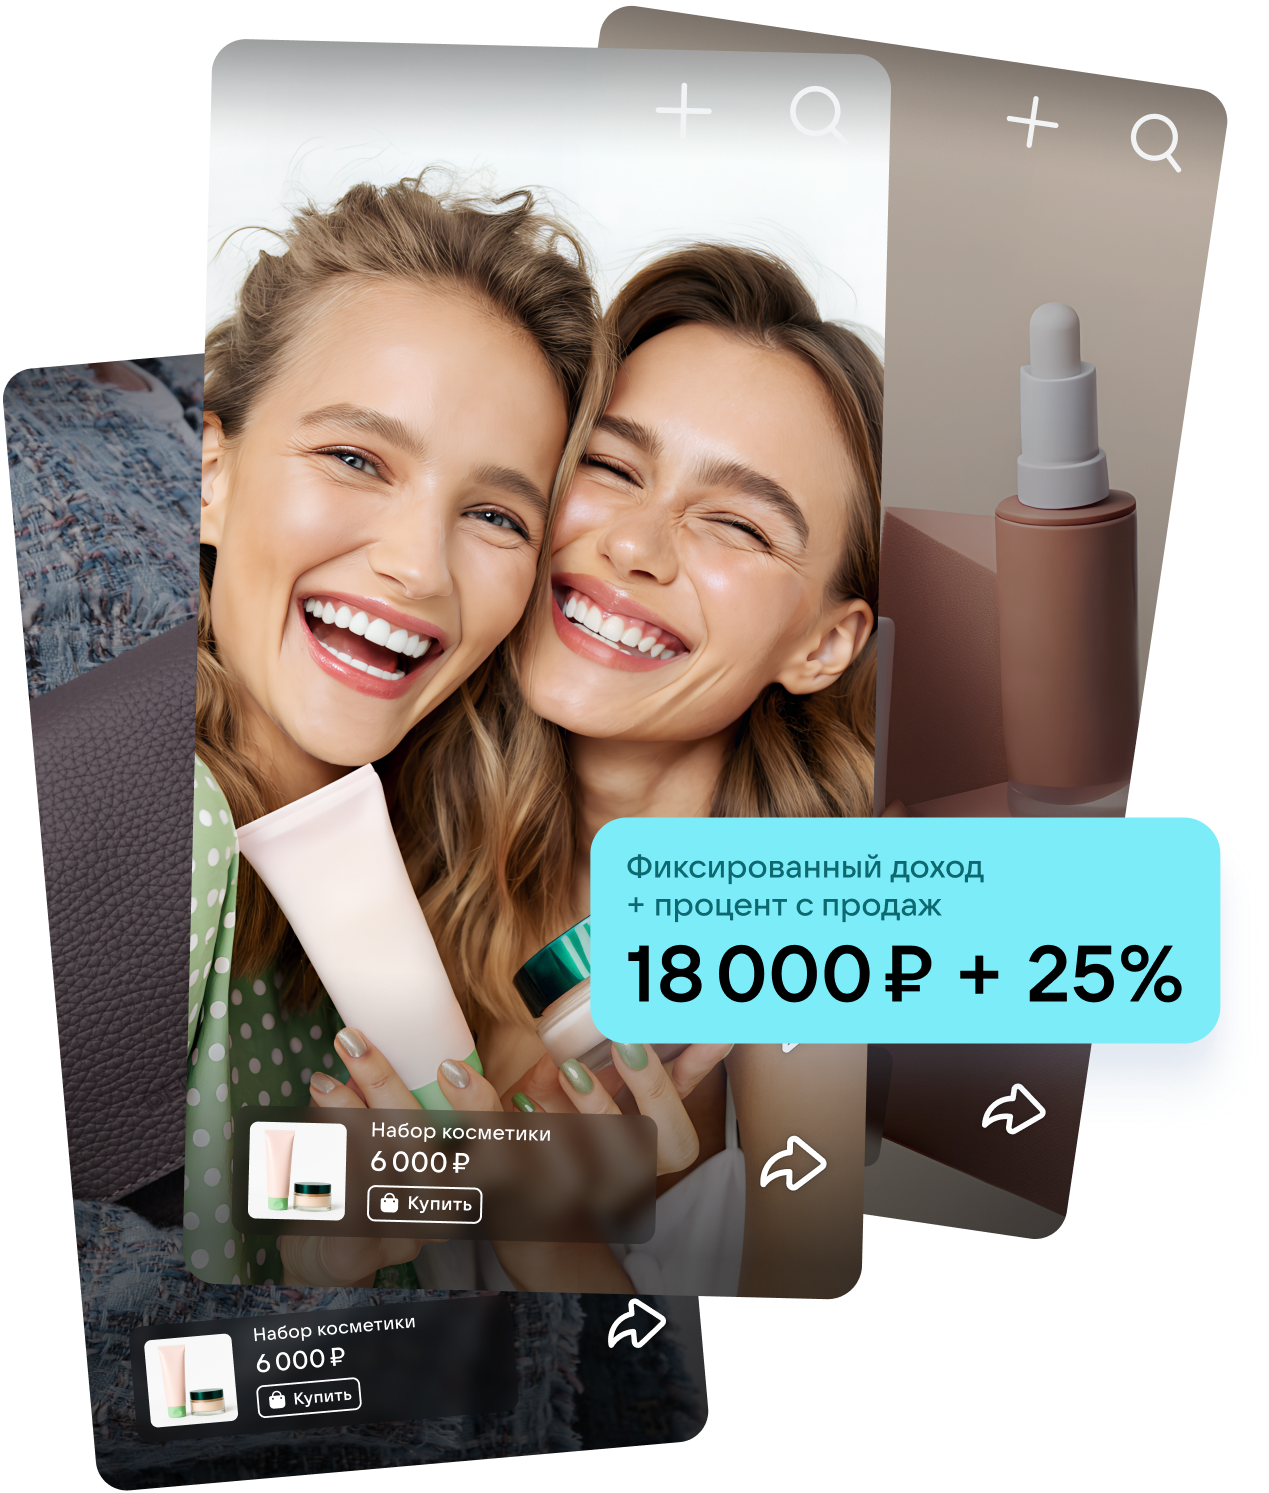
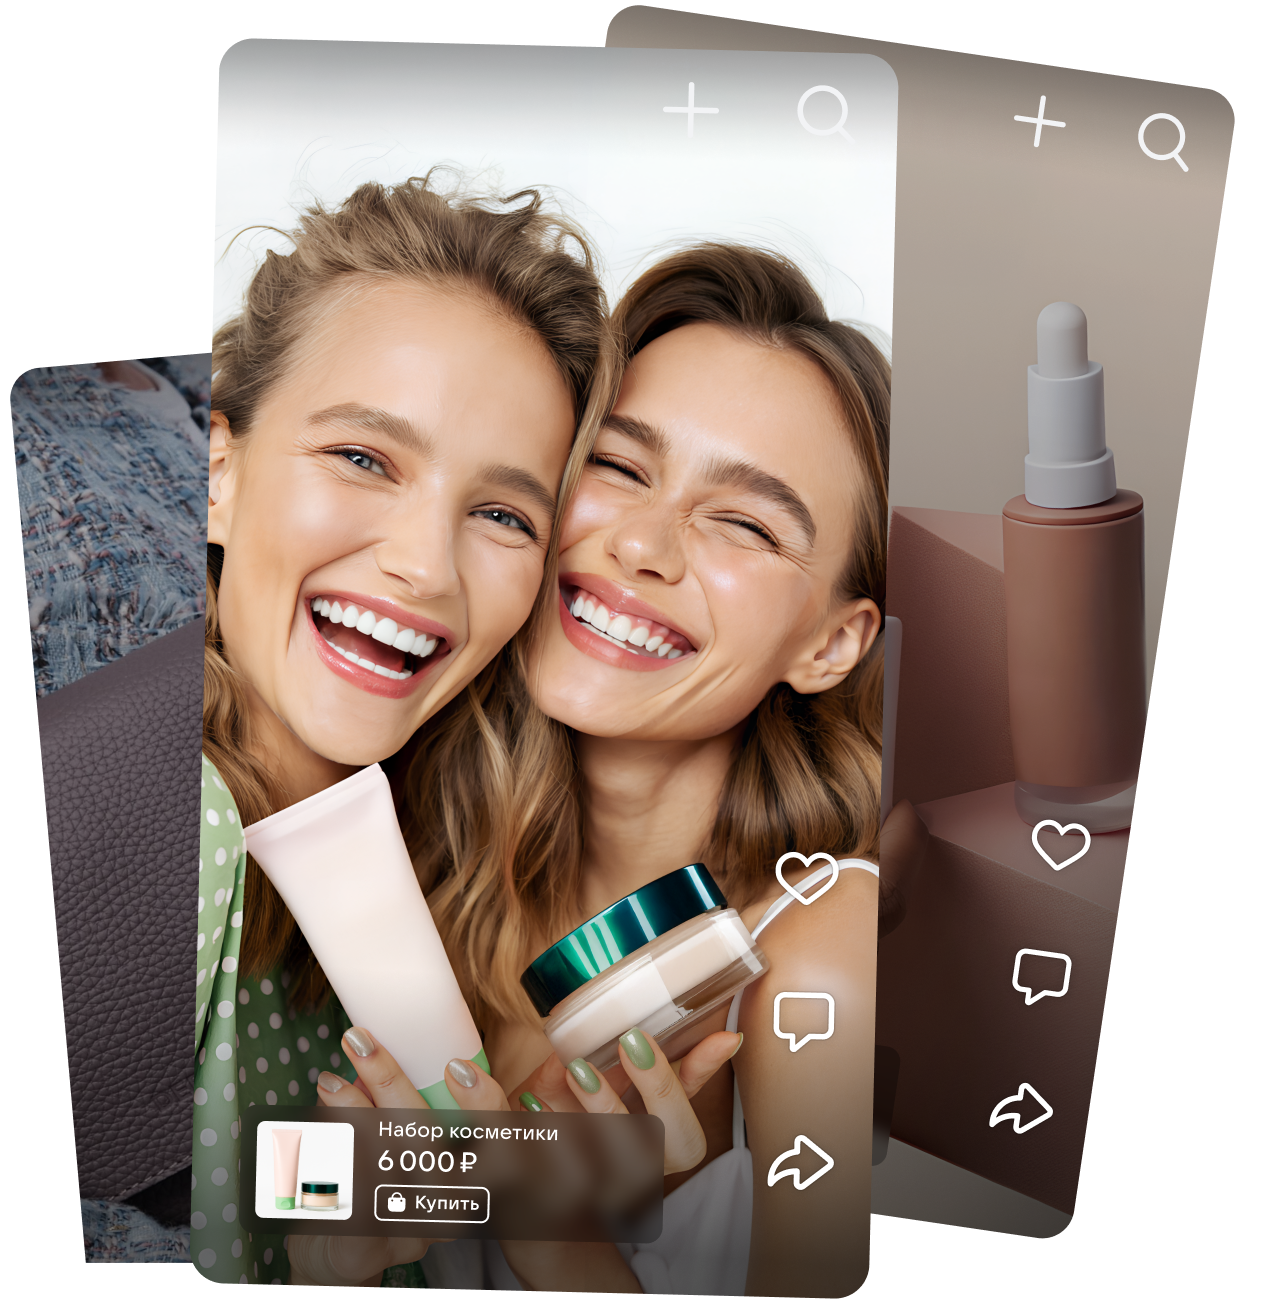
commit

diff --git a/src/toolkitRedux/toolkitSlice.js b/src/toolkitRedux/toolkitSlice.js
@@ -48,7 +48,7 @@ const defaultState = {
 								"tab_name": "Шопсы",
 								"title": "Рекламируйте товары с&nbsp;Оzon, а&nbsp;мы&nbsp;<span style='color:#7CEDF8;'>заплатим за&nbsp;просмотры</span> и&nbsp;продажи",
 								"desc": "<p>Выбирайте товары с&nbsp;Ozon и&nbsp;продвигайте их&nbsp;в&nbsp;постах и&nbsp;клипах. Согласовывать рекламу не&nbsp;нужно: у&nbsp;вас полная свобода</p><p>Больше просмотров — выше доход. Получайте выплаты за&nbsp;просмотры и&nbsp;проценты за&nbsp;продажи</p>",
-								"btn_text": "Подробнее",
+								"btn_text": "Узнать больше о шопсах",
 								"btn_link": "/tovary",
 								"img": "/img/tabs-block/img-1.png",
 								"img_mob": "/img/tabs-block/img-1_mob.png",

diff --git a/src/components/TabsBlock/tabsBlock.scss b/src/components/TabsBlock/tabsBlock.scss
@@ -41,8 +41,9 @@
 		max-width: 657px;
 		height: auto;
 		aspect-ratio: 0.9;
-		margin-top: -25px;
+		margin-top: -110px;
 		margin-right: -45px;
+		margin-bottom: -15px;
 		& img {
 			width: 100%;
 			height: 100%;

diff --git a/src/components/TabsBlock/tabsBlock.css b/src/components/TabsBlock/tabsBlock.css
@@ -63,8 +63,9 @@
   max-width: 657px;
   height: auto;
   aspect-ratio: 0.9;
-  margin-top: -25px;
+  margin-top: -110px;
   margin-right: -45px;
+  margin-bottom: -15px;
 }
 
 .tabs-block__body-img img {
